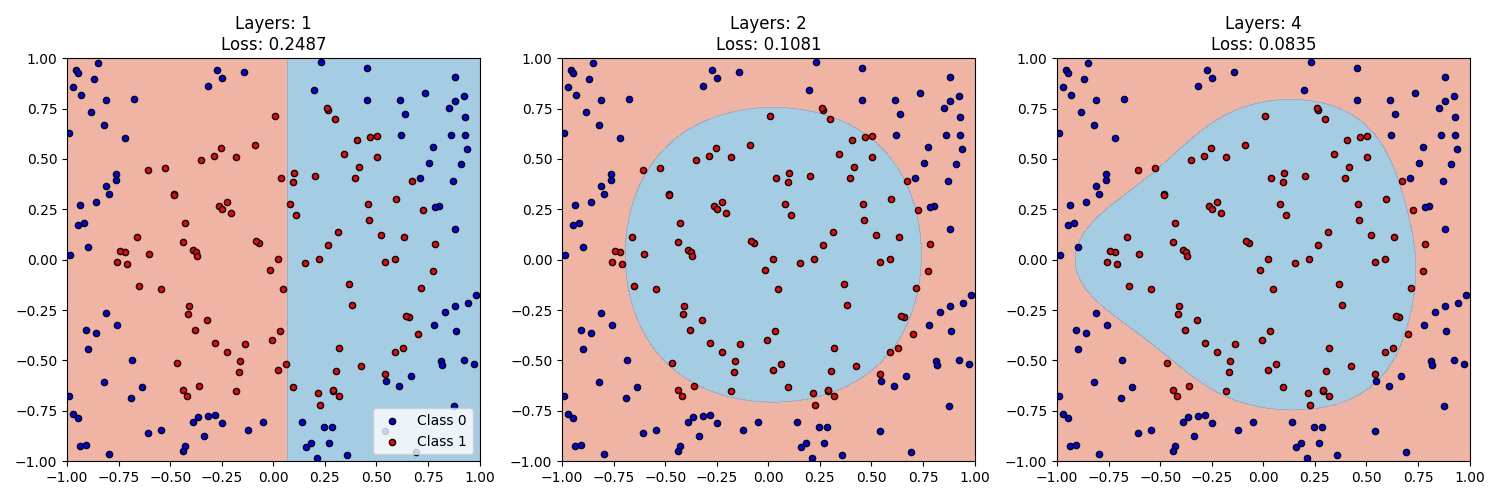
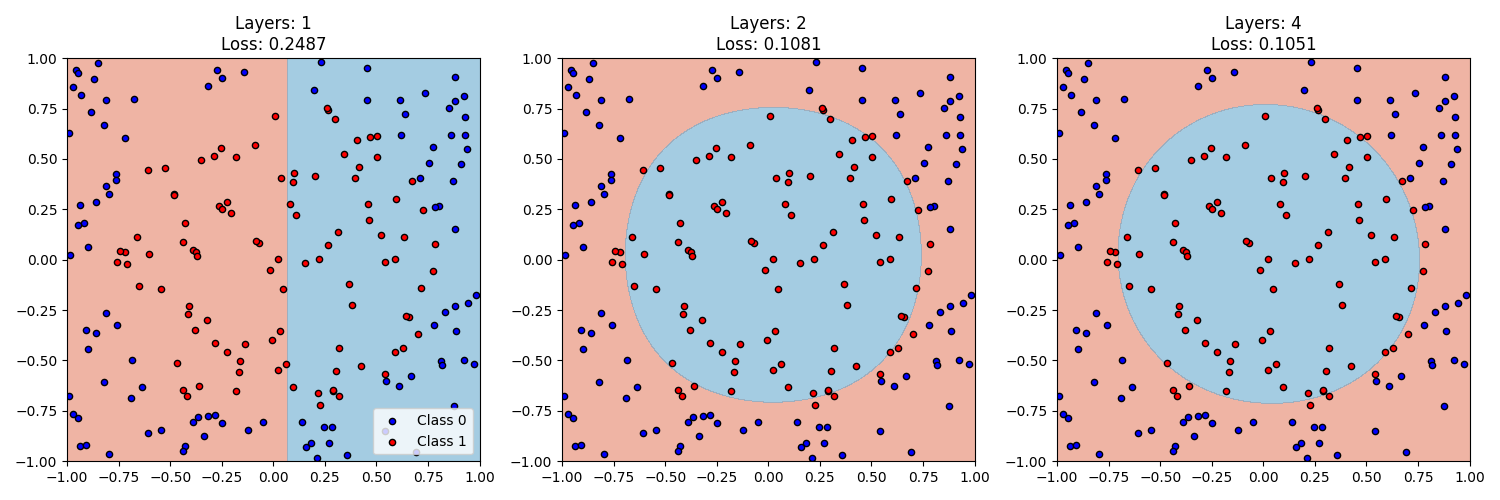
Switch to Optax L-BFGS optimizer
Updated the optimization loop to use `optax.lbfgs` with a `value_fn` passed to the update step, as suggested in code review. This provides a robust L-BFGS implementation compatible with JAX JIT.

diff --git a/examples/reproduce_papers/2019_Data_re_uploading/main.py b/examples/reproduce_papers/2019_Data_re_uploading/main.py
@@ -9,6 +9,7 @@ The task is to classify points inside/outside a circle.
 """
 
 import time
+from functools import partial
 import numpy as np
 import matplotlib.pyplot as plt
 import optax
@@ -100,22 +101,30 @@ def main():
         init_params = np.random.normal(0, 1, size=param_shape)
         params = K.convert_to_tensor(init_params)
 
-        # We use Adam with a JIT-compiled update step for modern, GPU-compatible optimization.
-        # While L-BFGS is mentioned, Adam is often more robust for stochastic/batch settings in DL frameworks
-        # and easier to implement correctly with optax's standard API.
-        solver = optax.adam(learning_rate=0.05)
+        # Use optax.lbfgs as requested
+        solver = optax.lbfgs(learning_rate=1.0)
         opt_state = solver.init(params)
 
+        # Jitted update step for L-BFGS
         @jax.jit
         def update_step(params, opt_state, x, y):
             loss_val, grads = jax.value_and_grad(loss)(params, x, y, n_layers)
-            updates, opt_state = solver.update(grads, opt_state, params)
+            updates, opt_state = solver.update(
+                grads,
+                opt_state,
+                params,
+                value=loss_val,
+                grad=grads,
+                value_fn=partial(loss, x=x, y=y, n_layers=n_layers),
+            )
             params = optax.apply_updates(params, updates)
             return params, opt_state, loss_val
 
         start_time = time.time()
         loss_history = []
-        for _ in range(200):  # 200 iterations
+        # L-BFGS often converges faster in fewer steps, but needs more computation per step (line search)
+        # We'll use fewer iterations compared to Adam (e.g., 50 or 100)
+        for _ in range(50):
             params, opt_state, loss_val = update_step(params, opt_state, X_tc, Y_tc)
             loss_history.append(loss_val)
 
@@ -175,10 +184,9 @@ def main():
             plt.legend()
 
     plt.tight_layout()
-    plt.savefig("examples/reproduce_papers/2019_Data_re_uploading/outputs/result.png")
-    print(
-        "Results saved to examples/reproduce_papers/2019_Data_re_uploading/outputs/result.png"
-    )
+    output_path = "examples/reproduce_papers/2019_Data_re_uploading/outputs/result.png"
+    plt.savefig(output_path)
+    print(f"Results saved to {output_path}")
 
 
 if __name__ == "__main__":
